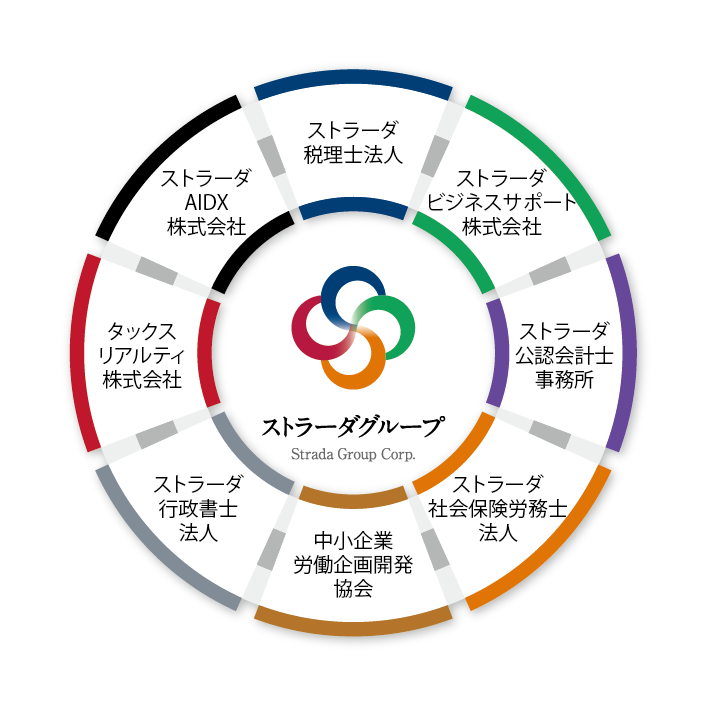
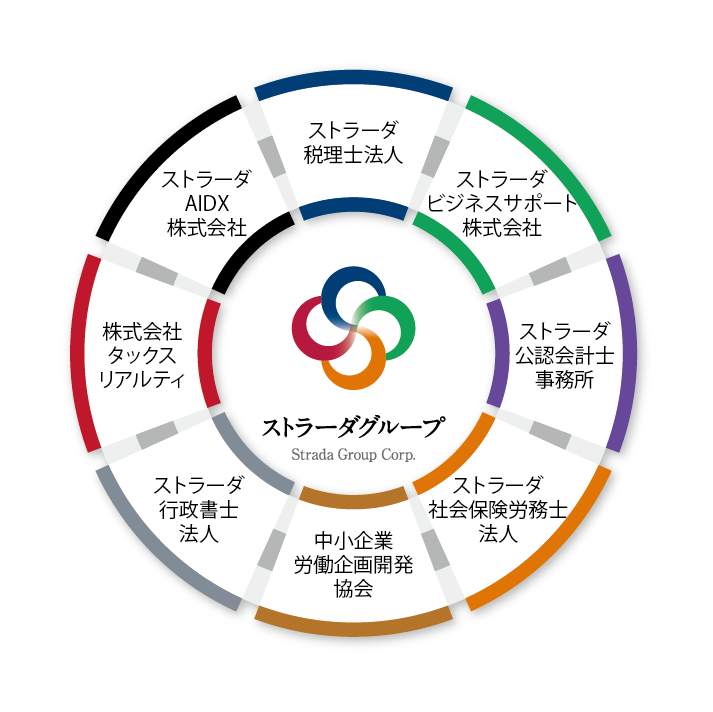
株式会社タックス・リアルティ

diff --git a/wp-content/themes/strada_theme/front-page.php b/wp-content/themes/strada_theme/front-page.php
@@ -197,7 +197,7 @@ $_SESSION['page_type']="top";
                               <a href="<?php echo home_url('sr'); ?>" style="text-decoration: none;"><span class="StradaStyle_span4">■社会保険労務士：ストラーダ社会保険労務士</span></a>  <br>
                               <a href="<?php echo home_url('chushoukigyouroudou'); ?>" style="text-decoration: none;"><span class="StradaStyle_span5">■労働保険事業組合業務：中小企業労働企画開発協会</span></a>  <br>
                               <a href="<?php echo home_url('admin'); ?>" style="text-decoration: none;"><span class="StradaStyle_span6">■行政書士：ストラーダ行政書士　</span></a>   <br>
-                              <a href="<?php echo home_url('taxria'); ?>" style="text-decoration: none;"><span class="StradaStyle_span7">■不動産：タックス・リアルティ株式会社　</span></a>    <br>
+                              <a href="<?php echo home_url('taxria'); ?>" style="text-decoration: none;"><span class="StradaStyle_span7">■不動産：株式会社タックス・リアルティ　</span></a>    <br>
                               <span class="StradaStyle_span8">■AI・DXコンサル：ストラーダAIDX株式会社　</span>    <br>
                               <span class="StradaStyle_span9">が在籍しています。ストラーダグループとして、企業の戦略を下支する、バックオフィス業務の専門家集団です。バックオフィス業務を総合的な支援をさせて頂くことにより、 会社の全体戦略に基づいたアドバイスを可能としております。</span>
                           </p>
@@ -221,7 +221,7 @@ $_SESSION['page_type']="top";
 <!--            <span style="color: #e17401; font-weight: bold;">社会保険労務士　</span>-->
 <!--            <span style="color: #b3752a; font-weight: bold;">■中小企業診断士：中小企業労働企画開発協会　</span>-->
 <!--            <span style="color: #808c96; font-weight: bold;">■行政書士：ストラーダ行政書士　</span>-->
-<!--            <span style="color: #b8183f; font-weight: bold;">■不動産：タックス・リアルティ株式会社　</span>-->
+<!--            <span style="color: #b8183f; font-weight: bold;">■不動産：株式会社タックス・リアルティ　</span>-->
 <!--            <span style="color: #221815;">が在籍しています。ストラーダグループとして、企</span>-->
 <!--            <span style="color: #221815;">業の戦略を下支する、バックオフィス業務の専門家集団です。バックオフィス業務を総合的な支援をさせて頂くことにより、-->
 <!--              会社の全体戦略に基づいたアドバイスを可能としております。</span>-->

diff --git a/wp-content/themes/strada_theme/front-page_ch.php b/wp-content/themes/strada_theme/front-page_ch.php
@@ -190,7 +190,7 @@ $_SESSION['page_type']="top";
                               <a href="<?php echo home_url('sr'); ?>" style="text-decoration: none;"><span class="StradaStyle_span4">■社会保険労務士：ストラーダ社会保険労務士</span></a>  <br>
                               <a href="<?php echo home_url('chushoukigyouroudou'); ?>" style="text-decoration: none;"><span class="StradaStyle_span5">■労働保険事業組合業務：中小企業労働企画開発協会</span></a>  <br>
                               <a href="<?php echo home_url('admin'); ?>" style="text-decoration: none;"><span class="StradaStyle_span6">■行政書士：ストラーダ行政書士　</span></a>   <br>
-                              <a href="<?php echo home_url('taxria'); ?>" style="text-decoration: none;"><span class="StradaStyle_span7">■不動産：タックス・リアルティ株式会社　</span></a>    <br>
+                              <a href="<?php echo home_url('taxria'); ?>" style="text-decoration: none;"><span class="StradaStyle_span7">■不動産：株式会社タックス・リアルティ　</span></a>    <br>
                               <span class="StradaStyle_span8">■AI・DXコンサル：ストラーダAIDX株式会社　</span>    <br>
                               <span class="StradaStyle_span9">が在籍しています。ストラーダグループとして、企業の戦略を下支する、バックオフィス業務の専門家集団です。バックオフィス業務を総合的な支援をさせて頂くことにより、 会社の全体戦略に基づいたアドバイスを可能としております。</span>
                           </p>
@@ -214,7 +214,7 @@ $_SESSION['page_type']="top";
 <!--            <span style="color: #e17401; font-weight: bold;">社会保険労務士　</span>-->
 <!--            <span style="color: #b3752a; font-weight: bold;">■中小企業診断士：中小企業労働企画開発協会　</span>-->
 <!--            <span style="color: #808c96; font-weight: bold;">■行政書士：ストラーダ行政書士　</span>-->
-<!--            <span style="color: #b8183f; font-weight: bold;">■不動産：タックス・リアルティ株式会社　</span>-->
+<!--            <span style="color: #b8183f; font-weight: bold;">■不動産：株式会社タックス・リアルティ　</span>-->
 <!--            <span style="color: #221815;">が在籍しています。ストラーダグループとして、企</span>-->
 <!--            <span style="color: #221815;">業の戦略を下支する、バックオフィス業務の専門家集団です。バックオフィス業務を総合的な支援をさせて頂くことにより、-->
 <!--              会社の全体戦略に基づいたアドバイスを可能としております。</span>-->

diff --git a/wp-content/themes/strada_theme/front-page_sb.php b/wp-content/themes/strada_theme/front-page_sb.php
@@ -193,7 +193,7 @@ $_SESSION['page_type']="top";
                               <a href="<?php echo home_url('sr'); ?>" style="text-decoration: none;"><span class="StradaStyle_span4">■社会保険労務士：ストラーダ社会保険労務士</span></a>  <br>
                               <a href="<?php echo home_url('chushoukigyouroudou'); ?>" style="text-decoration: none;"><span class="StradaStyle_span5">■労働保険事業組合業務：中小企業労働企画開発協会</span></a>  <br>
                               <a href="<?php echo home_url('admin'); ?>" style="text-decoration: none;"><span class="StradaStyle_span6">■行政書士：ストラーダ行政書士　</span></a>   <br>
-                              <a href="<?php echo home_url('taxria'); ?>" style="text-decoration: none;"><span class="StradaStyle_span7">■不動産：タックス・リアルティ株式会社　</span></a>    <br>
+                              <a href="<?php echo home_url('taxria'); ?>" style="text-decoration: none;"><span class="StradaStyle_span7">■不動産：株式会社タックス・リアルティ　</span></a>    <br>
                               <span class="StradaStyle_span8">■AI・DXコンサル：ストラーダAIDX株式会社　</span>    <br>
                               <span class="StradaStyle_span9">が在籍しています。ストラーダグループとして、企業の戦略を下支する、バックオフィス業務の専門家集団です。バックオフィス業務を総合的な支援をさせて頂くことにより、 会社の全体戦略に基づいたアドバイスを可能としております。</span>
                           </p>
@@ -217,7 +217,7 @@ $_SESSION['page_type']="top";
 <!--            <span style="color: #e17401; font-weight: bold;">社会保険労務士　</span>-->
 <!--            <span style="color: #b3752a; font-weight: bold;">■中小企業診断士：中小企業労働企画開発協会　</span>-->
 <!--            <span style="color: #808c96; font-weight: bold;">■行政書士：ストラーダ行政書士　</span>-->
-<!--            <span style="color: #b8183f; font-weight: bold;">■不動産：タックス・リアルティ株式会社　</span>-->
+<!--            <span style="color: #b8183f; font-weight: bold;">■不動産：株式会社タックス・リアルティ　</span>-->
 <!--            <span style="color: #221815;">が在籍しています。ストラーダグループとして、企</span>-->
 <!--            <span style="color: #221815;">業の戦略を下支する、バックオフィス業務の専門家集団です。バックオフィス業務を総合的な支援をさせて頂くことにより、-->
 <!--              会社の全体戦略に基づいたアドバイスを可能としております。</span>-->

diff --git a/wp-content/themes/strada_theme/front-page_sg.php b/wp-content/themes/strada_theme/front-page_sg.php
@@ -192,7 +192,7 @@ $_SESSION['page_type']="top";
                               <a href="<?php echo home_url('sr'); ?>" style="text-decoration: none;"><span class="StradaStyle_span4">■社会保険労務士：ストラーダ社会保険労務士</span></a>  <br>
                               <a href="<?php echo home_url('chushoukigyouroudou'); ?>" style="text-decoration: none;"><span class="StradaStyle_span5">■労働保険事業組合業務：中小企業労働企画開発協会</span></a>  <br>
                               <a href="<?php echo home_url('admin'); ?>" style="text-decoration: none;"><span class="StradaStyle_span6">■行政書士：ストラーダ行政書士　</span></a>   <br>
-                              <a href="<?php echo home_url('taxria'); ?>" style="text-decoration: none;"><span class="StradaStyle_span7">■不動産：タックス・リアルティ株式会社　</span></a>    <br>
+                              <a href="<?php echo home_url('taxria'); ?>" style="text-decoration: none;"><span class="StradaStyle_span7">■不動産：株式会社タックス・リアルティ　</span></a>    <br>
                               <span class="StradaStyle_span8">■AI・DXコンサル：ストラーダAIDX株式会社　</span>    <br>
                               <span class="StradaStyle_span9">が在籍しています。ストラーダグループとして、企業の戦略を下支する、バックオフィス業務の専門家集団です。バックオフィス業務を総合的な支援をさせて頂くことにより、 会社の全体戦略に基づいたアドバイスを可能としております。</span>
                           </p>
@@ -216,7 +216,7 @@ $_SESSION['page_type']="top";
 <!--            <span style="color: #e17401; font-weight: bold;">社会保険労務士　</span>-->
 <!--            <span style="color: #b3752a; font-weight: bold;">■中小企業診断士：中小企業労働企画開発協会　</span>-->
 <!--            <span style="color: #808c96; font-weight: bold;">■行政書士：ストラーダ行政書士　</span>-->
-<!--            <span style="color: #b8183f; font-weight: bold;">■不動産：タックス・リアルティ株式会社　</span>-->
+<!--            <span style="color: #b8183f; font-weight: bold;">■不動産：株式会社タックス・リアルティ　</span>-->
 <!--            <span style="color: #221815;">が在籍しています。ストラーダグループとして、企</span>-->
 <!--            <span style="color: #221815;">業の戦略を下支する、バックオフィス業務の専門家集団です。バックオフィス業務を総合的な支援をさせて頂くことにより、-->
 <!--              会社の全体戦略に基づいたアドバイスを可能としております。</span>-->

diff --git a/wp-content/themes/strada_theme/front-page_ss.php b/wp-content/themes/strada_theme/front-page_ss.php
@@ -193,7 +193,7 @@ $_SESSION['page_type']="top";
                               <a href="<?php echo home_url('sr'); ?>" style="text-decoration: none;"><span class="StradaStyle_span4">■社会保険労務士：ストラーダ社会保険労務士</span></a>  <br>
                               <a href="<?php echo home_url('chushoukigyouroudou'); ?>" style="text-decoration: none;"><span class="StradaStyle_span5">■労働保険事業組合業務：中小企業労働企画開発協会</span></a>  <br>
                               <a href="<?php echo home_url('admin'); ?>" style="text-decoration: none;"><span class="StradaStyle_span6">■行政書士：ストラーダ行政書士　</span></a>   <br>
-                              <a href="<?php echo home_url('taxria'); ?>" style="text-decoration: none;"><span class="StradaStyle_span7">■不動産：タックス・リアルティ株式会社　</span></a>    <br>
+                              <a href="<?php echo home_url('taxria'); ?>" style="text-decoration: none;"><span class="StradaStyle_span7">■不動産：株式会社タックス・リアルティ　</span></a>    <br>
                               <span class="StradaStyle_span8">■AI・DXコンサル：ストラーダAIDX株式会社　</span>    <br>
                               <span class="StradaStyle_span9">が在籍しています。ストラーダグループとして、企業の戦略を下支する、バックオフィス業務の専門家集団です。バックオフィス業務を総合的な支援をさせて頂くことにより、 会社の全体戦略に基づいたアドバイスを可能としております。</span>
                           </p>
@@ -217,7 +217,7 @@ $_SESSION['page_type']="top";
 <!--            <span style="color: #e17401; font-weight: bold;">社会保険労務士　</span>-->
 <!--            <span style="color: #b3752a; font-weight: bold;">■中小企業診断士：中小企業労働企画開発協会　</span>-->
 <!--            <span style="color: #808c96; font-weight: bold;">■行政書士：ストラーダ行政書士　</span>-->
-<!--            <span style="color: #b8183f; font-weight: bold;">■不動産：タックス・リアルティ株式会社　</span>-->
+<!--            <span style="color: #b8183f; font-weight: bold;">■不動産：株式会社タックス・リアルティ　</span>-->
 <!--            <span style="color: #221815;">が在籍しています。ストラーダグループとして、企</span>-->
 <!--            <span style="color: #221815;">業の戦略を下支する、バックオフィス業務の専門家集団です。バックオフィス業務を総合的な支援をさせて頂くことにより、-->
 <!--              会社の全体戦略に基づいたアドバイスを可能としております。</span>-->

diff --git a/wp-content/themes/strada_theme/front-page_tr.php b/wp-content/themes/strada_theme/front-page_tr.php
@@ -193,7 +193,7 @@ $_SESSION['page_type']="top";
                               <a href="<?php echo home_url('sr'); ?>" style="text-decoration: none;"><span class="StradaStyle_span4">■社会保険労務士：ストラーダ社会保険労務士</span></a>  <br>
                               <a href="<?php echo home_url('chushoukigyouroudou'); ?>" style="text-decoration: none;"><span class="StradaStyle_span5">■労働保険事業組合業務：中小企業労働企画開発協会</span></a>  <br>
                               <a href="<?php echo home_url('admin'); ?>" style="text-decoration: none;"><span class="StradaStyle_span6">■行政書士：ストラーダ行政書士　</span></a>   <br>
-                              <a href="<?php echo home_url('taxria'); ?>" style="text-decoration: none;"><span class="StradaStyle_span7">■不動産：タックス・リアルティ株式会社　</span></a>    <br>
+                              <a href="<?php echo home_url('taxria'); ?>" style="text-decoration: none;"><span class="StradaStyle_span7">■不動産：株式会社タックス・リアルティ　</span></a>    <br>
                               <span class="StradaStyle_span8">■AI・DXコンサル：ストラーダAIDX株式会社　</span>    <br>
                               <span class="StradaStyle_span9">が在籍しています。ストラーダグループとして、企業の戦略を下支する、バックオフィス業務の専門家集団です。バックオフィス業務を総合的な支援をさせて頂くことにより、 会社の全体戦略に基づいたアドバイスを可能としております。</span>
                             </p>

diff --git a/wp-content/themes/strada_theme/front-page_SZ.php b/wp-content/themes/strada_theme/front-page_SZ.php
@@ -337,7 +337,7 @@ $_SESSION['page_type']="top";
 <!--            <span style="color: #e17401; font-weight: bold;">社会保険労務士　</span>-->
 <!--            <span style="color: #b3752a; font-weight: bold;">■中小企業診断士：中小企業労働企画開発協会　</span>-->
 <!--            <span style="color: #808c96; font-weight: bold;">■行政書士：ストラーダ行政書士　</span>-->
-<!--            <span style="color: #b8183f; font-weight: bold;">■不動産：タックス・リアルティ株式会社　</span>-->
+<!--            <span style="color: #b8183f; font-weight: bold;">■不動産：株式会社タックス・リアルティ　</span>-->
 <!--            <span style="color: #221815;">が在籍しています。ストラーダグループとして、企</span>-->
 <!--            <span style="color: #221815;">業の戦略を下支する、バックオフィス業務の専門家集団です。バックオフィス業務を総合的な支援をさせて頂くことにより、-->
 <!--              会社の全体戦略に基づいたアドバイスを可能としております。</span>-->
